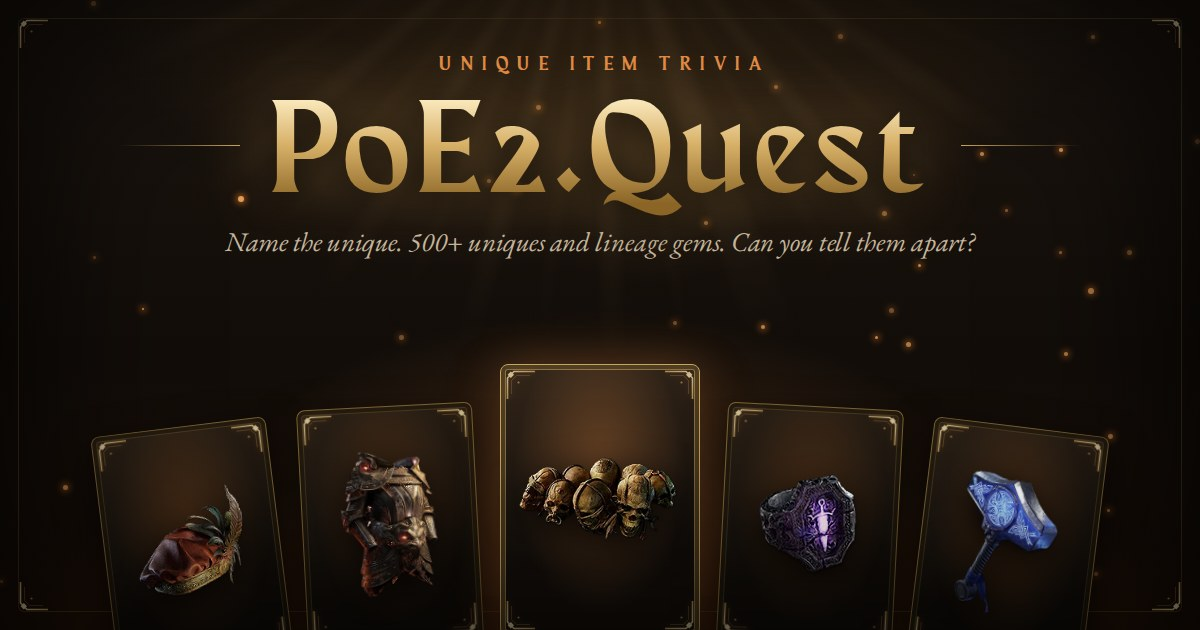
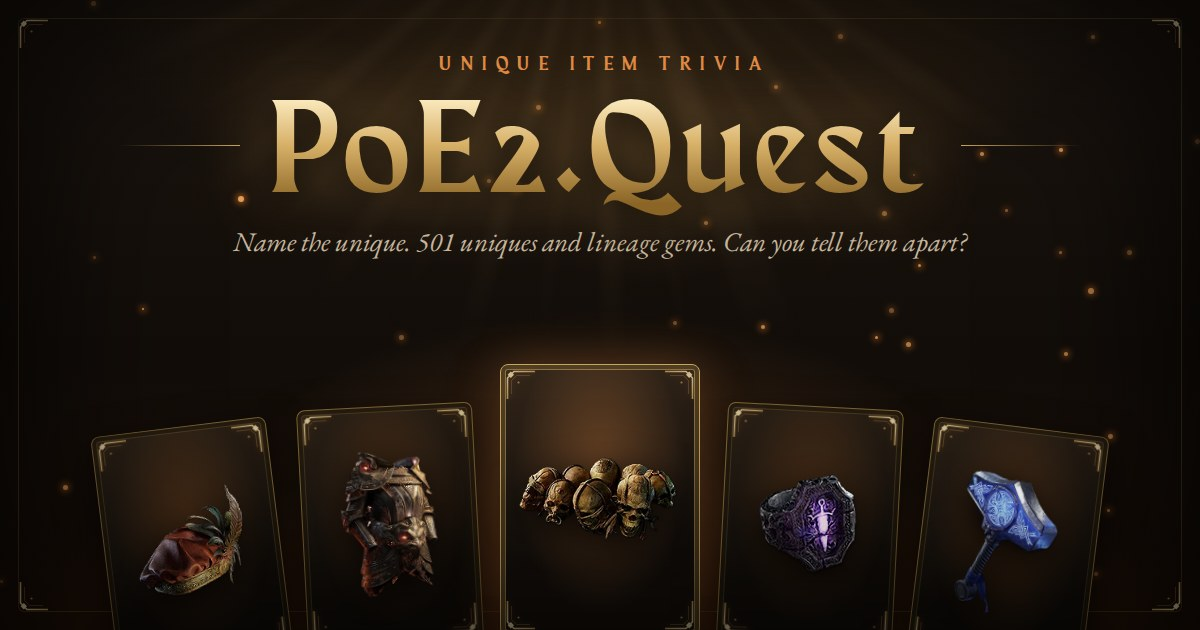
Use the exact item count in the share image and meta text
Match the start page tagline: 501 uniques and lineage gems instead of 500+.

Claude-Session: https://claude.ai/code/session_01KPANPTuBy12pgwdFjCgcEJ

Changed region(s): [[0.185, 0.3619, 0.8325, 0.4222]]

diff --git a/index.html b/index.html
@@ -5,7 +5,7 @@
     <link rel="icon" type="image/svg+xml" href="./favicon.svg" />
     <meta name="viewport" content="width=device-width, initial-scale=1.0, viewport-fit=cover" />
     <meta name="theme-color" content="#0a0908" />
-    <meta name="description" content="Name the unique. A free multiplayer Path of Exile 2 trivia game with 500+ uniques and lineage gems: play online with friends or hot-seat on one device." />
+    <meta name="description" content="Name the unique. A free multiplayer Path of Exile 2 trivia game with 501 uniques and lineage gems: play online with friends or hot-seat on one device." />
     <meta name="author" content="zoe_arcana" />
     <link rel="canonical" href="https://poe2.quest/" />
     <meta property="og:type" content="website" />
@@ -13,7 +13,7 @@
     <meta property="og:locale" content="en_US" />
     <meta property="og:url" content="https://poe2.quest/" />
     <meta property="og:title" content="PoE2.Quest • Unique Item Trivia" />
-    <meta property="og:description" content="Name the unique. 500+ Path of Exile 2 uniques and lineage gems. Can you tell them apart? Free multiplayer trivia by zoe_arcana." />
+    <meta property="og:description" content="Name the unique. 501 Path of Exile 2 uniques and lineage gems. Can you tell them apart? Free multiplayer trivia by zoe_arcana." />
     <!-- Bump ?v= whenever og.jpg changes, so link previews drop their cached copy. -->
     <meta property="og:image" content="https://poe2.quest/og.jpg?v=2" />
     <meta property="og:image:type" content="image/jpeg" />
@@ -22,7 +22,7 @@
     <meta property="og:image:alt" content="PoE2.Quest • Unique Item Trivia, with Goldrim, Kaom's Heart, Headhunter, Blackheart and Mjölner on gold-framed cards" />
     <meta name="twitter:card" content="summary_large_image" />
     <meta name="twitter:title" content="PoE2.Quest • Unique Item Trivia" />
-    <meta name="twitter:description" content="Name the unique. 500+ Path of Exile 2 uniques and lineage gems. Can you tell them apart?" />
+    <meta name="twitter:description" content="Name the unique. 501 Path of Exile 2 uniques and lineage gems. Can you tell them apart?" />
     <meta name="twitter:image" content="https://poe2.quest/og.jpg?v=2" />
     <meta name="twitter:image:alt" content="PoE2.Quest • Unique Item Trivia, with Goldrim, Kaom's Heart, Headhunter, Blackheart and Mjölner on gold-framed cards" />
     <title>PoE2.Quest • Unique Item Trivia</title>
